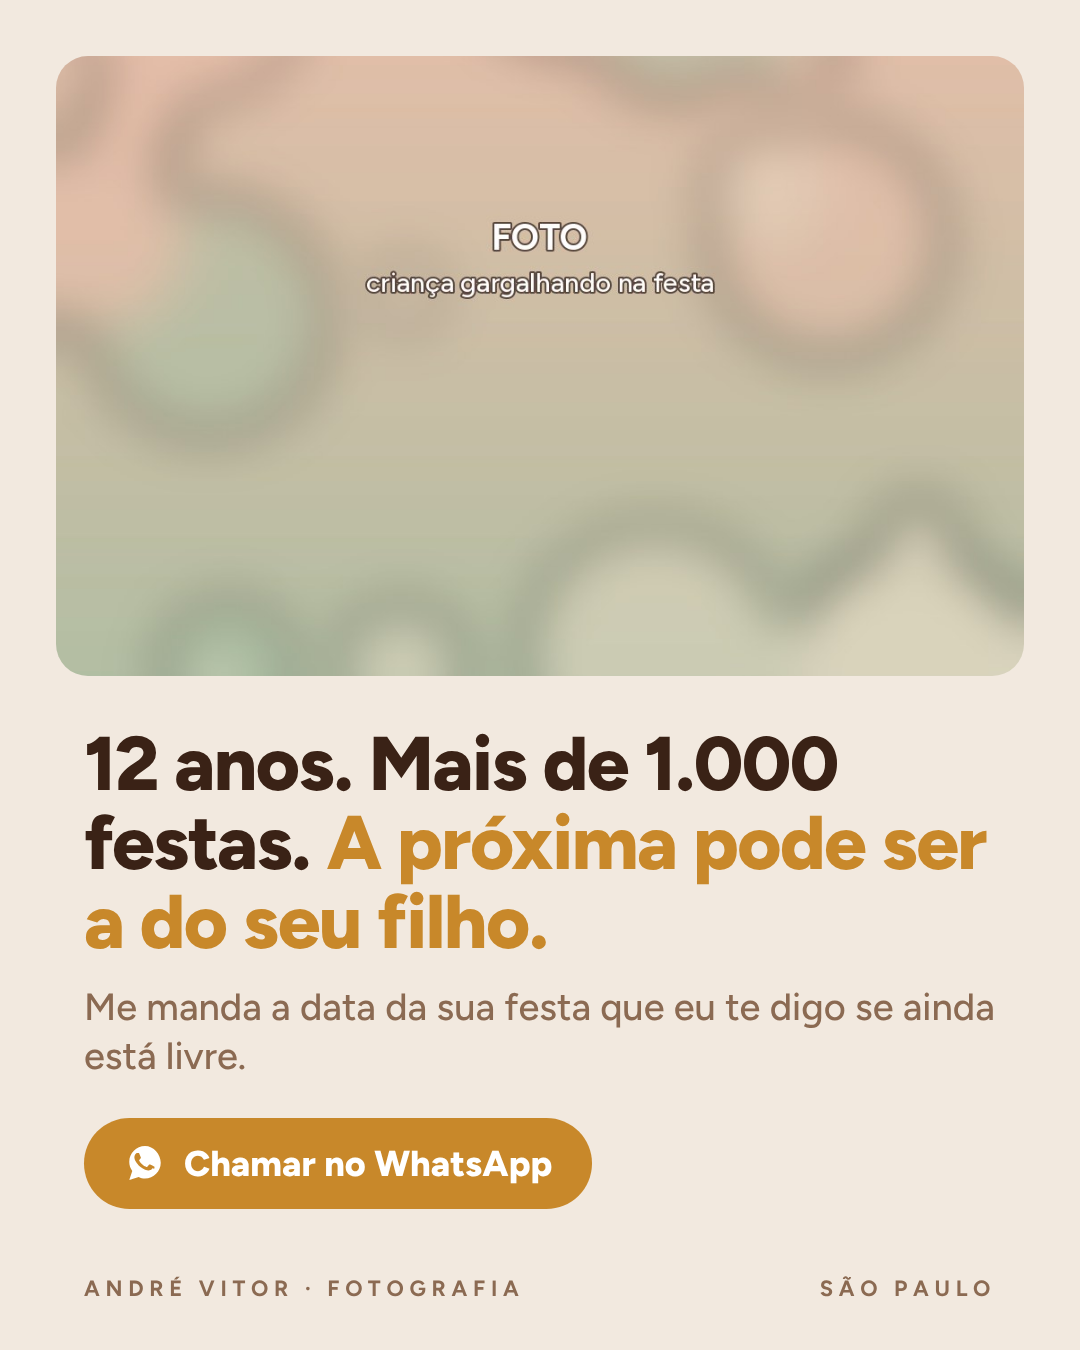
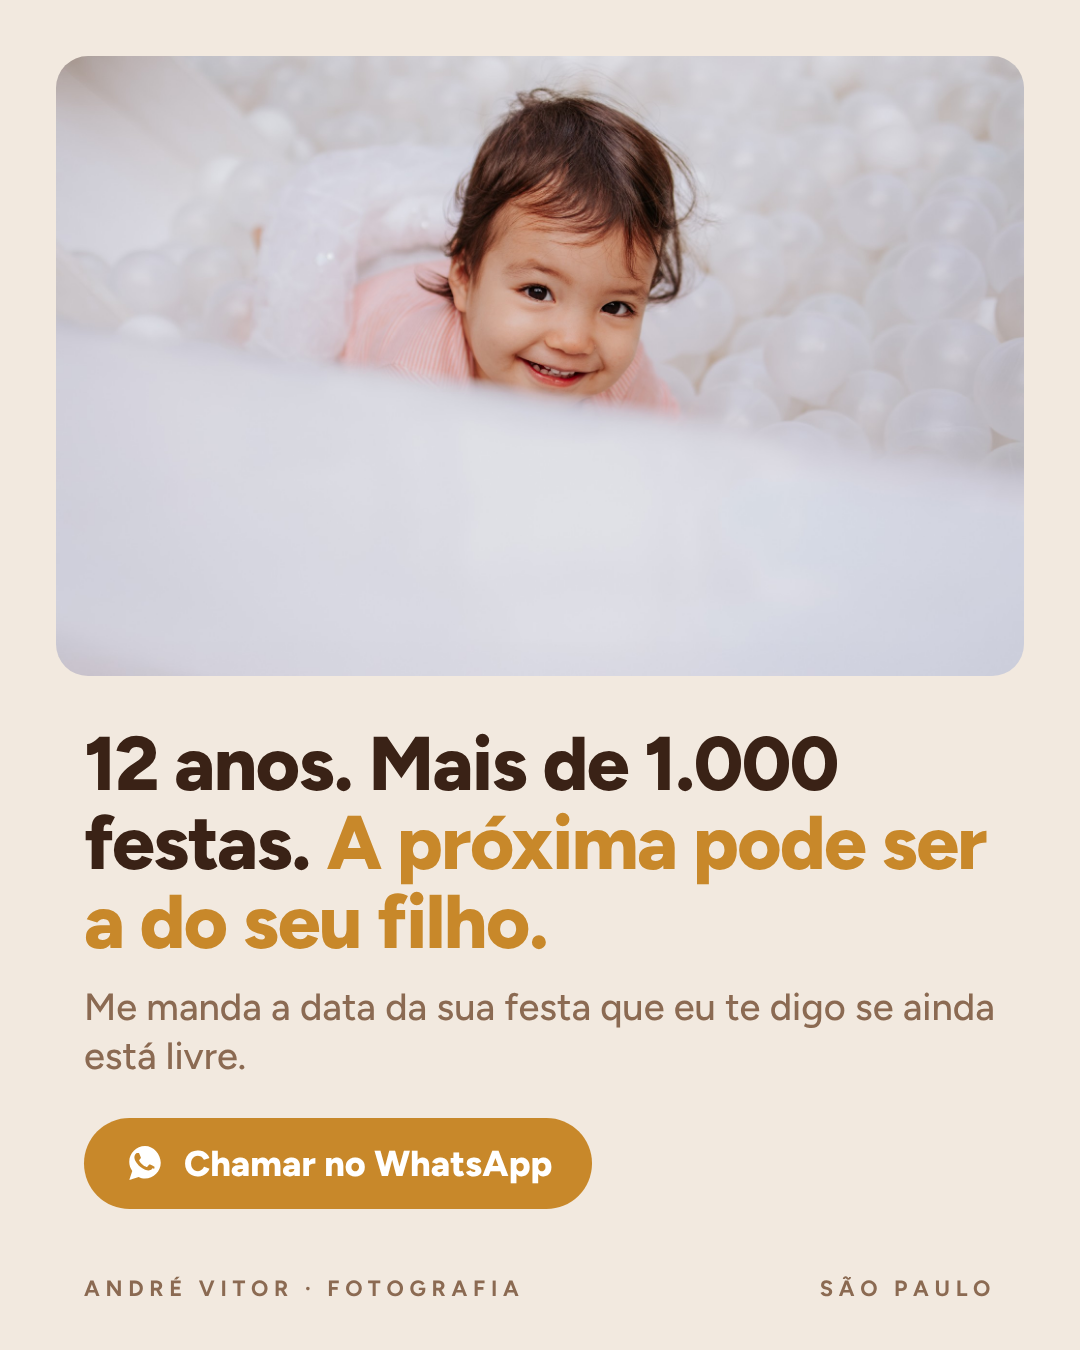
Promoção 12 anos: capa tipográfica e foto real no slide 3
Claude-Session: https://claude.ai/code/session_01V8X75n2knntE3NdxPFh2K8

diff --git a/anuncio-12anos/slides.html b/anuncio-12anos/slides.html
@@ -5,7 +5,7 @@
 <title>Anúncio · 12 anos de fotografia · Carrossel</title>
 <!--
   Promoção de 12 anos (1080×1350, 4:5). Mesmo sistema visual do carrossel de festa infantil.
-  Para trocar as fotos: substitua os arquivos em fotos/ mantendo os nomes e rode: node exportar.js
+  Para trocar a foto do slide 3: substitua fotos/foto-crianca.jpg mantendo o nome e rode: node exportar.js
 -->
 <style>
   @font-face{ font-family:'Figtree'; src:url('../anuncio-festa/fontes/figtree-400.ttf'); font-weight:400; }
@@ -36,13 +36,15 @@
 
   /* ---------- 1: oferta (fundo escuro, de comemoração) ---------- */
   .oferta{ background:var(--marrom); color:var(--creme); }
-  .oferta .foto{ height:560px; }
-  .oferta .texto{ top:660px; }
-  .oferta .kicker{ color:var(--caramelo); }
+  .oferta .texto{ top:150px; }
+  .oferta .kicker{ color:var(--caramelo); font-size:34px; }
   .oferta .rodape{ color:var(--caramelo); }
-  .bloco{ display:flex; align-items:center; gap:36px; margin-top:22px; }
-  .numero{ font-weight:800; font-size:250px; line-height:.86; letter-spacing:-.05em; color:var(--ambar-cl); }
-  .bloco p{ font-weight:700; font-size:50px; line-height:1.12; }
+  .oferta .bolinhas{ margin-top:34px; gap:22px; }
+  .oferta .bolinhas i{ width:52px; height:52px; background:var(--ambar); }
+  .numero{ display:block; font-weight:800; font-size:430px; line-height:.9; letter-spacing:-.06em; color:var(--ambar-cl); margin:60px 0 0 -18px; }
+  .oferta-txt{ font-weight:700; font-size:72px; line-height:1.08; letter-spacing:-.01em; margin-top:24px; }
+  .seta{ display:inline-flex; align-items:center; gap:14px; color:var(--creme); }
+  .seta svg{ width:44px; height:20px; }
   .selo{
     display:inline-block; margin-top:34px; padding:14px 30px; border-radius:999px;
     background:var(--creme); color:var(--marrom); font-weight:800; font-size:36px;
@@ -98,19 +100,17 @@
 </head>
 <body>
 
-<!-- 1 · OFERTA -->
+<!-- 1 · OFERTA (capa tipográfica) -->
 <section class="slide oferta" id="s1">
-  <div class="foto"><img src="fotos/foto-andre.jpg" style="--pos:50% 30%" alt=""></div>
   <div class="texto">
     <p class="kicker">12 anos de fotografia</p>
-    <div class="bloco">
-      <span class="numero">12%</span>
-      <p>de desconto nas 12 primeiras festas fechadas</p>
-    </div>
+    <div class="bolinhas"><i></i><i></i><i></i><i></i><i></i><i></i><i></i><i></i><i></i><i></i><i></i><i></i></div>
+    <span class="numero">12%</span>
+    <p class="oferta-txt">de desconto nas 12 primeiras festas fechadas</p>
     <span class="selo">em todos os planos</span>
     <p class="prazo">até 30/11 ou enquanto houver vagas</p>
   </div>
-  <div class="rodape"><span>André Vitor · Fotografia</span><span>1/3</span></div>
+  <div class="rodape"><span>André Vitor · Fotografia</span><span class="seta">arraste <svg viewBox="0 0 44 20"><path d="M0 10h40M32 2l8 8-8 8" fill="none" stroke="currentColor" stroke-width="3"/></svg></span></div>
 </section>
 
 <!-- 2 · COMO FUNCIONA -->
@@ -157,7 +157,7 @@
 
 <!-- 3 · CTA -->
 <section class="slide cta" id="s3">
-  <div class="foto"><img src="fotos/foto-crianca.jpg" style="--pos:50% 35%" alt=""></div>
+  <div class="foto"><img src="fotos/foto-crianca.jpg" style="--pos:50% 22%" alt=""></div>
   <div class="texto">
     <h2 class="titulo">12 anos. Mais de 1.000 festas. <em>A próxima pode ser a do seu filho.</em></h2>
     <p class="sub">Me manda a data da sua festa que eu te digo se ainda está livre.</p>
